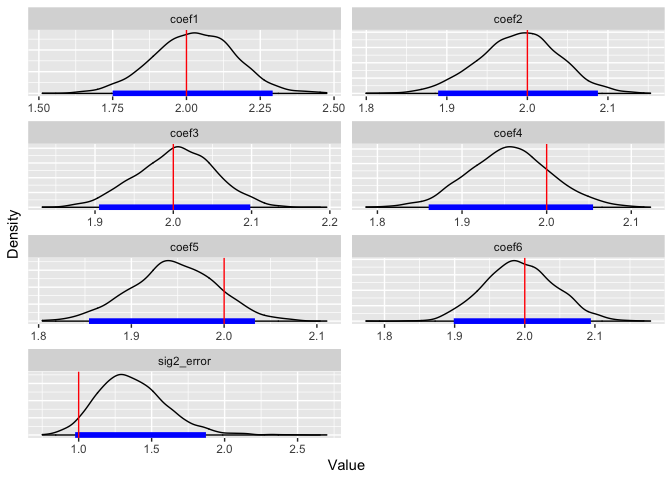
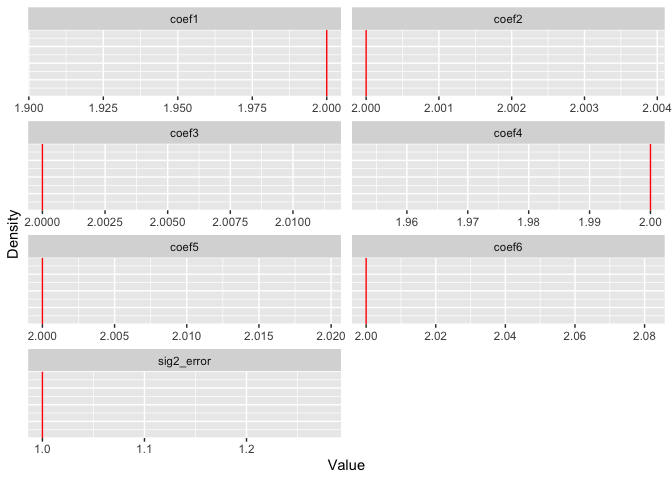
Edits in MIEDA.R

diff --git a/README.md b/README.md
@@ -91,11 +91,11 @@ We can obtain the MCMC samples using `BMIR_sampler`.
 
 ``` r
 ## BMIR model fitting
-ntotal <- 10000
+ntotal <- 20000
 BMIR_fit <- BMIR_sampler(ntotal = ntotal, tidydata = tidydata)
 #> =============================================================
 #> Multiple Instance Bayesian Regression
-#> Elapsed time for chain1=0.017 mins: MCMC sampling is done!
+#> Elapsed time for chain1=0.031 mins: MCMC sampling is done!
 ```
 
 ### Visualization
@@ -175,7 +175,7 @@ ggs_density <- function (D, ncol, family = NA, rug = FALSE, hpd = FALSE, greek =
 ggs_mcmc <- ggmcmc::ggs(BMIR_fit$mcmclist)
 ggs_mcmc$Parameter <- factor(ggs_mcmc$Parameter, labels = c(paste0("coef", 1:(nfeature + 1)), "sig2_error"))
 ggs_density(ggs_mcmc %>% 
-              filter(Iteration > ntotal * 1 / 4), 
+              filter(Iteration > ntotal * 0.5), 
             ncol = 2,
             hpd = TRUE) + 
   geom_vline(data = data.frame(Parameter = c(paste0("coef", 1:(nfeature + 1)), "sig2_error"),
@@ -184,6 +184,19 @@ ggs_density(ggs_mcmc %>%
   labs(x = "Value", y = "Density") + 
   theme(axis.text.y = element_blank(),
         axis.ticks.y = element_blank())
+#> Warning: Groups with fewer than two data points have been dropped.
+
+#> Warning: Groups with fewer than two data points have been dropped.
+
+#> Warning: Groups with fewer than two data points have been dropped.
+
+#> Warning: Groups with fewer than two data points have been dropped.
+
+#> Warning: Groups with fewer than two data points have been dropped.
+
+#> Warning: Groups with fewer than two data points have been dropped.
+
+#> Warning: Groups with fewer than two data points have been dropped.
 ```
 
 ![](README-unnamed-chunk-8-1.png)
